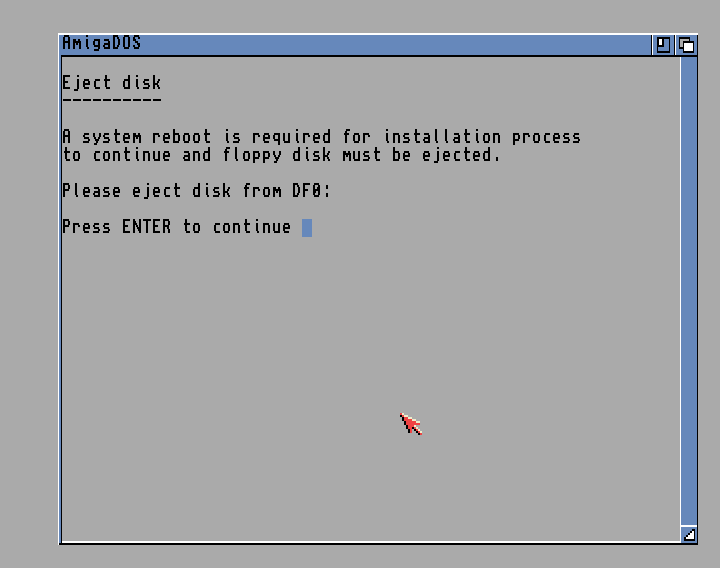
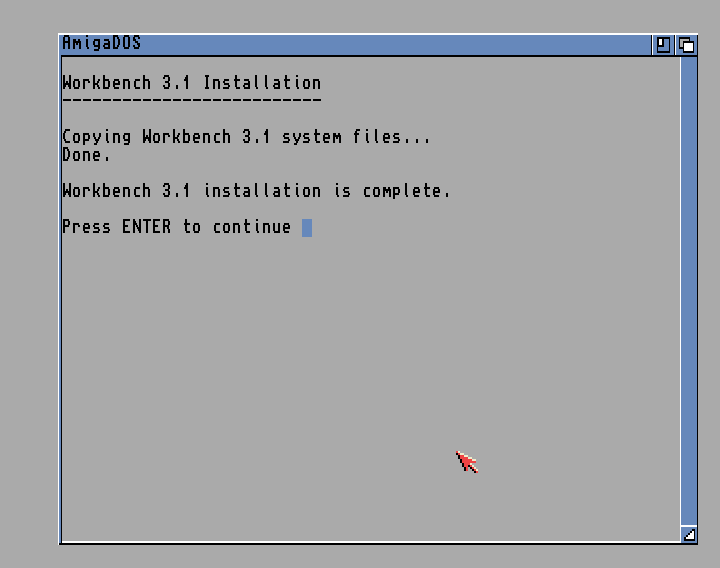
Updated running self install tutorial

diff --git a/README.md b/README.md
@@ -108,15 +108,19 @@ Insert required Workbench 3.1 disk in any floppy device and press enter to conti
 
 Workbench 3.1 installation running and copying system files.
 
+![run_self_install_4.png](screenshots/run_self_install_4.png?raw=true)
+
+Workbench 3.1 installation is complete.
+
 Press enter to continue installation process.
 
-![run_self_install_4.png](screenshots/run_self_install_4.png?raw=true)
+![run_self_install_5.png](screenshots/run_self_install_5.png?raw=true)
 
 **4. Eject disk**
 
 Eject Workbench 3.1 disk and press enter to continue installation process.
 
-![run_self_install_5.png](screenshots/run_self_install_5.png?raw=true)
+![run_self_install_6.png](screenshots/run_self_install_6.png?raw=true)
 
 **5. Vampire boot installation complete and reboot**
 
@@ -124,7 +128,7 @@ Vampire boot installation is complete.
 
 Press enter to continue reboot.
 
-![run_self_install_6.png](screenshots/run_self_install_6.png?raw=true)
+![run_self_install_7.png](screenshots/run_self_install_7.png?raw=true)
 
 **6. Vampire boot ready for use**
 
